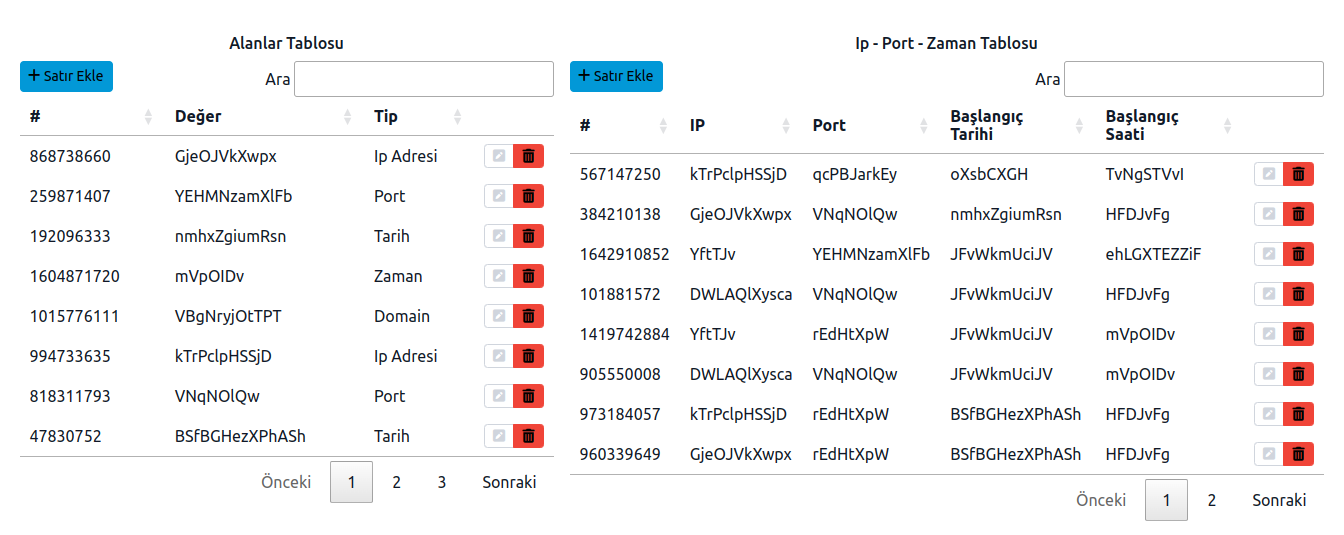
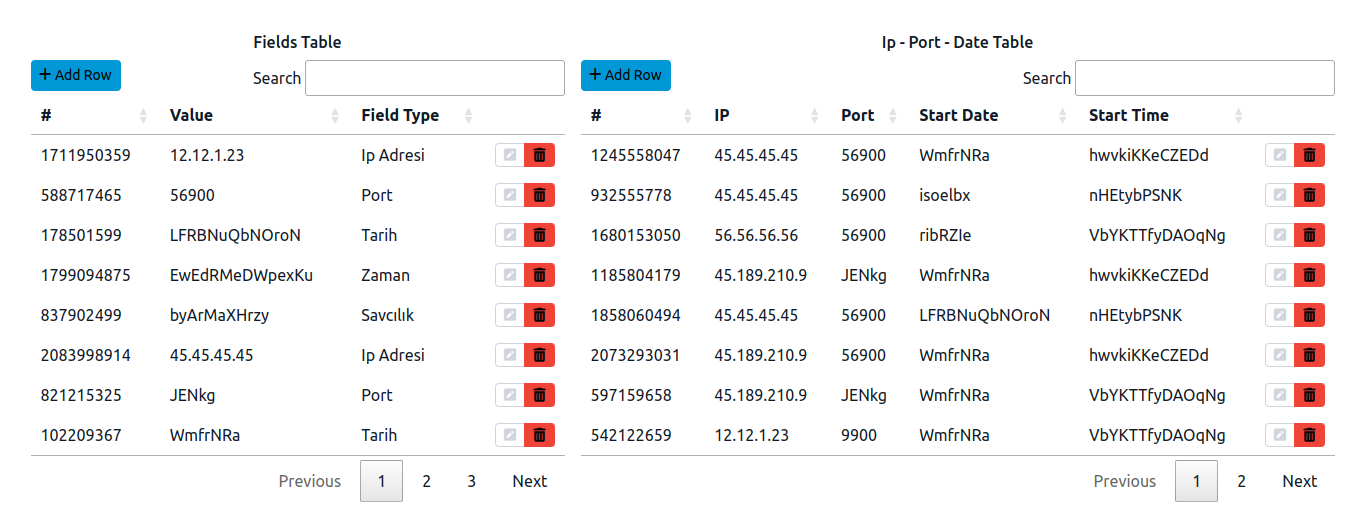
* ui & doc update

diff --git a/src/main/resources/public/content/js/dataTables.2.tableedit.js b/src/main/resources/public/content/js/dataTables.2.tableedit.js
@@ -26,7 +26,7 @@ if (typeof jQuery === 'undefined') {
             dataTables: {
                 ajaxUrl: '',
                 validSelectsProperty: null,
-                addNewRowText: 'Satır Ekle',
+                addNewRowText: 'Add Row',
                 addTableRowClass: null,
                 dataProperty: null,
                 // plain row html without tabledit
@@ -46,17 +46,17 @@ if (typeof jQuery === 'undefined') {
                 scrollCollapse: false,
                 columns: [],
                 language: {
-                    "lengthMenu": "Sayfada _MENU_ kayıt göster",
-                    "zeroRecords": "Kayıt bulunamadı!",
-                    "info": "_PAGES_ sayfadan _PAGE_. sayfayı görüntülüyorsunuz",
-                    "infoEmpty": "Kayıt bulunamadı",
-                    "infoFiltered": "(Toplam _MAX_ kayıttan filtrelenmiş sonuç)",
-                    "sSearch": "Ara",
+                    "lengthMenu": "Show _MENU_ rows in a page",
+                    "zeroRecords": "No records found!",
+                    "info": "You are presented _PAGE_ th page, total pages: _PAGES_",
+                    "infoEmpty": "No records",
+                    "infoFiltered": "(Fitered from _MAX_ records)",
+                    "sSearch": "Search",
                     "oPaginate": {
-                        "sFirst": "İlk Sayfa",
-                        "sPrevious": "Önceki",
-                        "sNext": "Sonraki",
-                        "sLast": "Son Sayfa"
+                        "sFirst": "First Page",
+                        "sPrevious": "Previous",
+                        "sNext": "Next",
+                        "sLast": "Last Page"
                     }
                 }
             },

diff --git a/src/main/resources/public/content/js/script.js b/src/main/resources/public/content/js/script.js
@@ -28,13 +28,13 @@ var Step3 = Step3 || {}, dt2TeFields, dt2TeIpRels;
                         },
                         {
                             data: "value",
-                            title: "Değer",
+                            title: "Value",
                             type: "input",
                             valueField: "value"
                         },
                         {
                             data: "fieldTypeText",
-                            title: "Tip",
+                            title: "Field Type",
                             type: "select",
                             valueField: "fieldTypeId"
                         }
@@ -123,13 +123,13 @@ var Step3 = Step3 || {}, dt2TeFields, dt2TeIpRels;
                         },
                         {
                             data: "startDateField.value",
-                            title: "Başlangıç Tarihi",
+                            title: "Start Date",
                             type: "select",
                             valueField: "startDateField.id"
                         },
                         {
                             data: "startTimeField.value",
-                            title: "Başlangıç Saati",
+                            title: "Start Time",
                             type: "select",
                             valueField: "startTimeField.id"
                         }

diff --git a/src/main/resources/templates/index.html b/src/main/resources/templates/index.html
@@ -24,14 +24,14 @@
 
       <div class="row table-body job-table-body">
         <div class="col-xl-5 text-center">
-          <h6>Alanlar Tablosu</h6>
+          <h6>Fields Table</h6>
           <table id="fieldsTable" class="datatable">
             <thead class="datatable-header"></thead>
             <tbody class="datatable-body"></tbody>
           </table>
         </div>
         <div class="col-xl-7 text-center">
-          <h6>Ip - Port - Zaman Tablosu</h6>
+          <h6>Ip - Port - Date Table</h6>
           <table id="ipRelationsTable" class="datatable">
             <thead class="datatable-header"></thead>
             <tbody class="datatable-body"></tbody>
